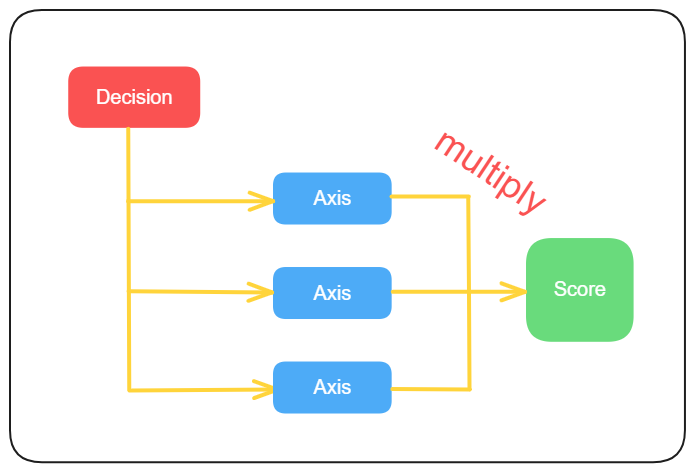
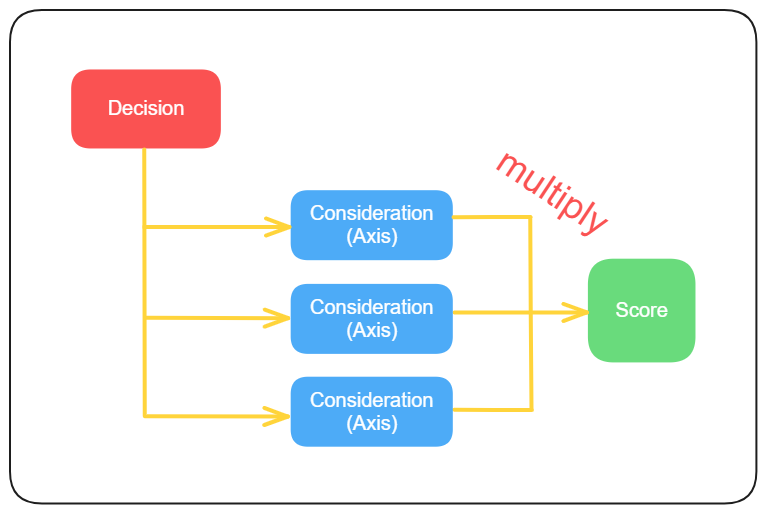
[PUBLISHER] Merge #233
* PUSH NOTE : considerations.md

* PUSH ATTACHMENT : infinite-axis.png

* PUSH ATTACHMENT : ConsiderationEditor.gif

* PUSH ATTACHMENT : input-source.png

* PUSH ATTACHMENT : add-input.png

* PUSH ATTACHMENT : select-normalization.png

* PUSH ATTACHMENT : response-curves.png

diff --git a/docs/UtilityIntelligence/UtilityAgent/considerations.md b/docs/UtilityIntelligence/UtilityAgent/considerations.md
@@ -1,6 +1,6 @@
 ---
 share: true
-title: Considerations (Axes)
+title: Considerations
 ---
 
 In **Utility Intelligence,** a **consideration (also called axis)** represents an aspect of the game world that influences the utility of a decision. It indicates **how appealing** the decision is at the moment and is always normalized in the range `[0, 1]`. 
@@ -22,17 +22,15 @@ A consideration is made up of:
 ![[../../Attachments/UtilityIntelligence/Documenntation/Considerations/infinite-axis.png|center]]
 
 
-You can add new considerations by using the **Consideration Editor**. With this powerful Editor, you can select the input, the normalization and the response curve you want. Besides that, you could check how they affect the consideration score by changing them.
+You can add new considerations by using the **Consideration Editor**. With this powerful Editor, you can select the input, the normalization and the response curve you want. Besides that, you can check how they affect the consideration score by changing them.
+
 ![[../../Attachments/UtilityIntelligence/Animations/ConsiderationEditor.gif|../../Attachments/UtilityIntelligence/Animations/ConsiderationEditor.gif]]
 
 ### Inputs
 
-And you can add inputs to the agent by going to the **Input Tab**:
-![[../../Attachments/UtilityIntelligence/Documenntation/input-tab.png|../../Attachments/UtilityIntelligence/Documenntation/input-tab.png]]
-
+#### How to create an input
 There are two ways to create a new input:
-
-1. Inherit from `Input<Value>`
+1. Create a class inherited from `Input<Value>` and override `OnGetRawInput` method. For example:
 	```cs
 	public class MyDistanceToTargetInput : Input<float>  
 	{  
@@ -46,7 +44,7 @@ There are two ways to create a new input:
 	    }}
 	```
 
-2. Inherit from `InputFromSource<Value>`
+2. Because each consideration is considered per target, so if the input factor exists in both self and target entities, then the input class should inherit from `InputFromSource<Value>`:
 	```cs
 	public class HealthInput : InputFromSource<float>  
 	{  
@@ -59,11 +57,23 @@ There are two ways to create a new input:
 	        return 0;  
 	    }}
 	```
+- Using `InputFromSource<Value>`, you can choose the source of the input: either **Self** or **Target**:
+![[../../Attachments/UtilityIntelligence/Documenntation/Considerations/input-source.png|../../Attachments/UtilityIntelligence/Documenntation/Considerations/input-source.png]]
+
+
+And to add inputs to the agent, you need to go to the **Input Tab**, give it a name, select the input type and then press the create button:
+![[../../Attachments/UtilityIntelligence/Documenntation/Considerations/add-input.png|../../Attachments/UtilityIntelligence/Documenntation/Considerations/add-input.png]]
+
+#### Built-in inputs
+
+Currently, there is only one built-in input, and I will add more in the future based on user feedback:
+- **MyDistanceToTarget**: It returns the distance from the current agent to the target.
 
 ### Input Normalizations
 
-To create new input normalizations, you need to create a new class inheriting from `InputNormalization<Value>`
+#### How to create an input normalization
 
+To create a new input normalization, you need to create a new class inherited from `InputNormalization<Value>` and override `OnCalculateNormalizedInput` method. For example:
 ```cs
 public class ChargeRadiusNormalization : InputNormalization<float>  
 {  
@@ -79,68 +89,50 @@ public class ChargeRadiusNormalization : InputNormalization<float>
     }}
 ```
 
+To select the input normalization for your consideration, you need to select the normalization type from this drop down in **Consideration Editor**:
+![[../../Attachments/UtilityIntelligence/Documenntation/Considerations/select-normalization.png|../../Attachments/UtilityIntelligence/Documenntation/Considerations/select-normalization.png]]
+
+#### Built-in input normalizations
+
+We provides a lot of built-in input normalizations to help you normalize your inputs **without having to write a single line of code**:
+- Float
+	- BasicNormalizationFloat: It clamps the input value to `[0, 1]`
+	- DivideByMaxValueFloat: It divides the input by `MaxValue`.
+	- GreaterThanOrEqualValueFloat. It returns `1` if the input value is greater than `Value`; otherwise, it returns `0`.
+	- LessThanOrEqualValueFloat: It returns `1` if the input value is less than the `Value`; otherwise, it returns `0`.
+	- InRangeFloat: It maps the input value from `[MinValue, MaxValue]` to `[0, 1]`.  Note that if the input value is above `MaxValue`, then the normalized value is `1`, and if the input value is below `MaxValue`, then the normalized value is `0`.
+	- IsInRangeFloat: It returns `1` if the input value is in the range `[MinValue, MaValue]`; otherwise, it returns `0`.
+- Int
+	- BasicNormalizationInt
+	- GreaterThanOrEqualValueInt
+	- LessThanOrEqualValueInt
+	- InRangeInt
+	- IsInRangeInt
+- Bool
+	- BasicNormalizationBool: It returns `1` if the input value is `true`; otherwise, it returns `0`.
+
 ### Response Curves
 
+In **Utility Intelligence**, response curves are used to remap the normalized input to the consideration score. And it has 5 parameters:
+- Curve Type
+- Slope
+- Exponent
+- XShift
+- YShift
+You can change these parameters to adjust the shape of the response curve based on your needs. 
 
+**Utility Intelligence** also provides a list of useful presets for response curves. If you want to use our presets, you just need to select one and click to the **Apply** button.
 
-### Built-in Inputs, Normalizations and Response Curves
-**Utility Intelligence** provides a set of built-in inputs, normalizations and response curves which help you create new considerations **without having to write a single line of code!**
+![[../../Attachments/UtilityIntelligence/Documenntation/Considerations/response-curves.png|../../Attachments/UtilityIntelligence/Documenntation/Considerations/response-curves.png]]
 
-1. Inputs
-	- BasicInputBool
-	- BasicInputInt
-	- BasicInputFloat
-	- MyDistanceToTarget
-1. Input Normalizations
-	- Float
-		- BasicNormalizationFloat
-		- DivideByMaxValueFloat
-		- GreaterThanOrEqualValueFloat
-		- LessThanOrEqualValueFloat
-		- InRangeFloat
-		- IsInRangeFloat
-	- Int
-		- BasicNormalizationInt
-		- GreaterThanOrEqualValueInt
-		- LessThanOrEqualValueInt
-		- InRangeInt
-		- IsInRangeInt
-	- Bool
-		- BasicNormalizationBool
-1. Response Curve
-	- Basic Linear
-	- Inverse Linear
-	- Constant
-	- Basic Logistic
-	- Inverse Logistic
-	- Basic Logit
-	- Inverse Logit
-	- Basic Quadric Lower Left
-	- Basic Quadric Lower Right
-	- Basic Quadric Upper Left
-	- Basic Quadric Upper Right
-	- Basic Sine
-	- Inverse Sine
-	- Basic Bell Curve
-	- Inverse Bell Curve
-
-
-<!--
-**Here's how it works step by step:**
-1. Evaluating Actions:
-- The game world state is analyzed, considering factors like the NPC's health, enemy positions, available resources, and goals.
-- Each possible action the NPC can take (attack, heal, move, etc.) is assessed based on its impact on the game state.
-2. Assigning Utilities:
-- Based on the analysis, each action is assigned a numerical score representing its **utility**.
-- This score reflects how "good" the action is for achieving the NPC's goals in the current context.
-- Factors like potential damage dealt, health recovered, or distance moved closer to the objective can contribute to the score.
-3. Making Decisions:
-- The action with the **highest utility score** is chosen for the NPC to perform.
-- This ensures the NPC prioritizes actions that are most beneficial for its current situation and goals.
-
-
-## Infinite Axis Utility System
-
-## Why you should use Utility AI instead of Behavior Tree and Finite State Machine
-
--->
+---
+<p align="center">
+If you find anything that seems incorrect, please let me know so that I can fix it! 😆
+	<br>
+	<a href="https://discord.gg/vRFEK5uE3f"><img width = '50' height='50' src="/Attachments/discord.png"></img></a>
+	<a href="mailto: carlos.truong.dev@gmail.com"><img width = '50' height='50' src="/Attachments/gmail.png"></img></a>
+</p>
+<p align="center">
+If you like this plugin, please support me by leaving a 5-star review on <a href="https://assetstore.unity.com/packages/slug/276632">the Unity Asset Store</a>. Thank you! 🥰
+	<br><a href="https://assetstore.unity.com/packages/slug/276632"><img width= '30%' height='30%'  src="/Attachments/unity-asset-store.png" title="Review this plugin"></img></a>
+</p>
